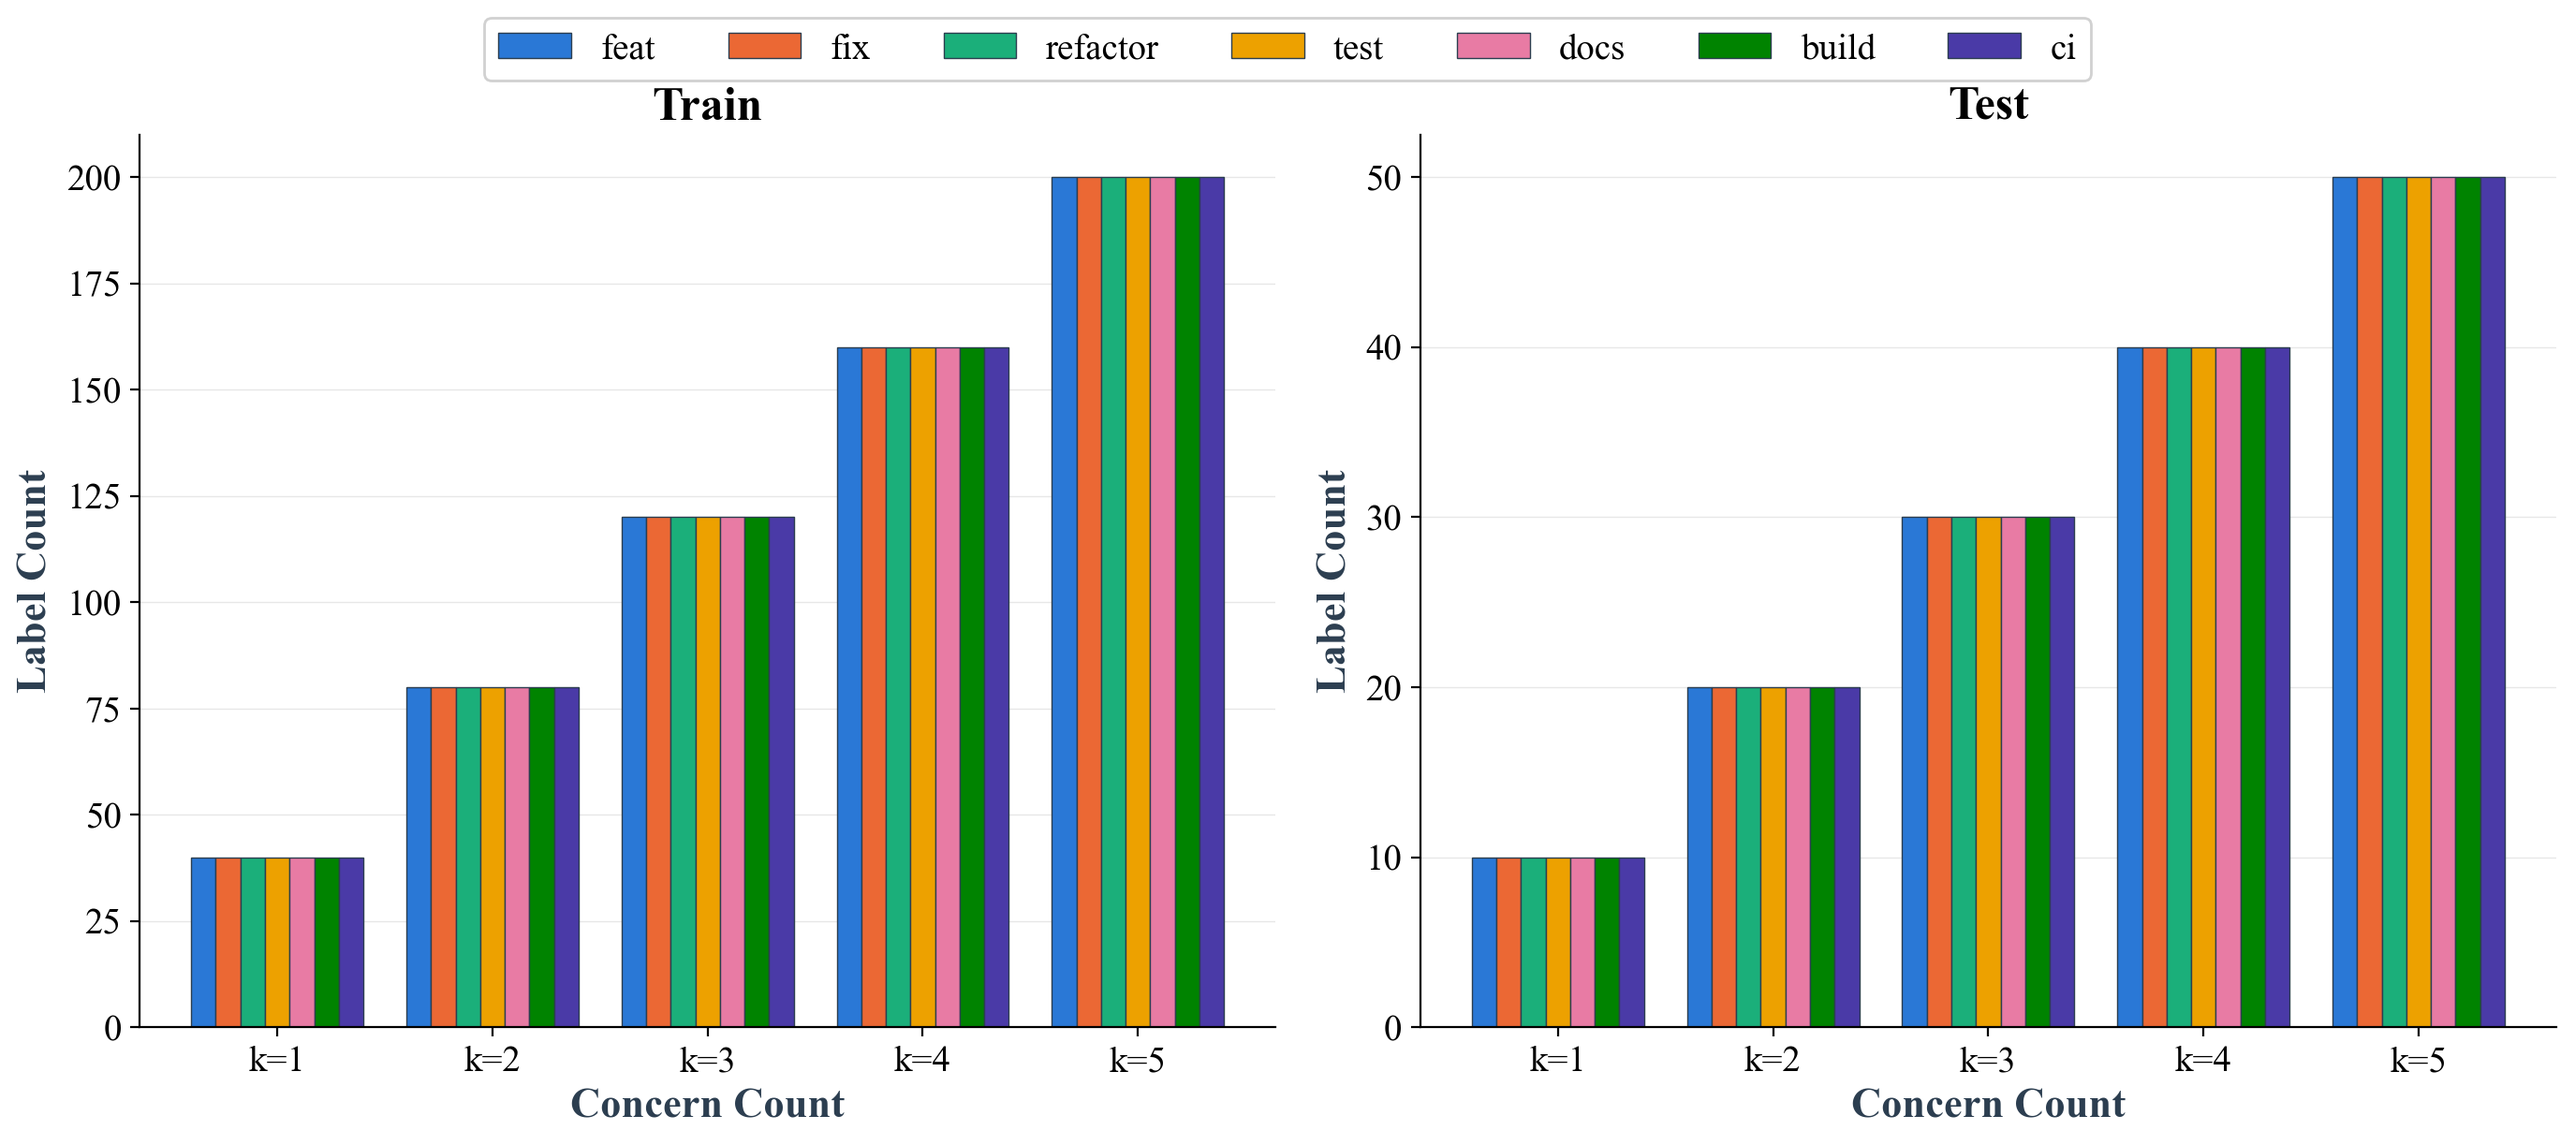
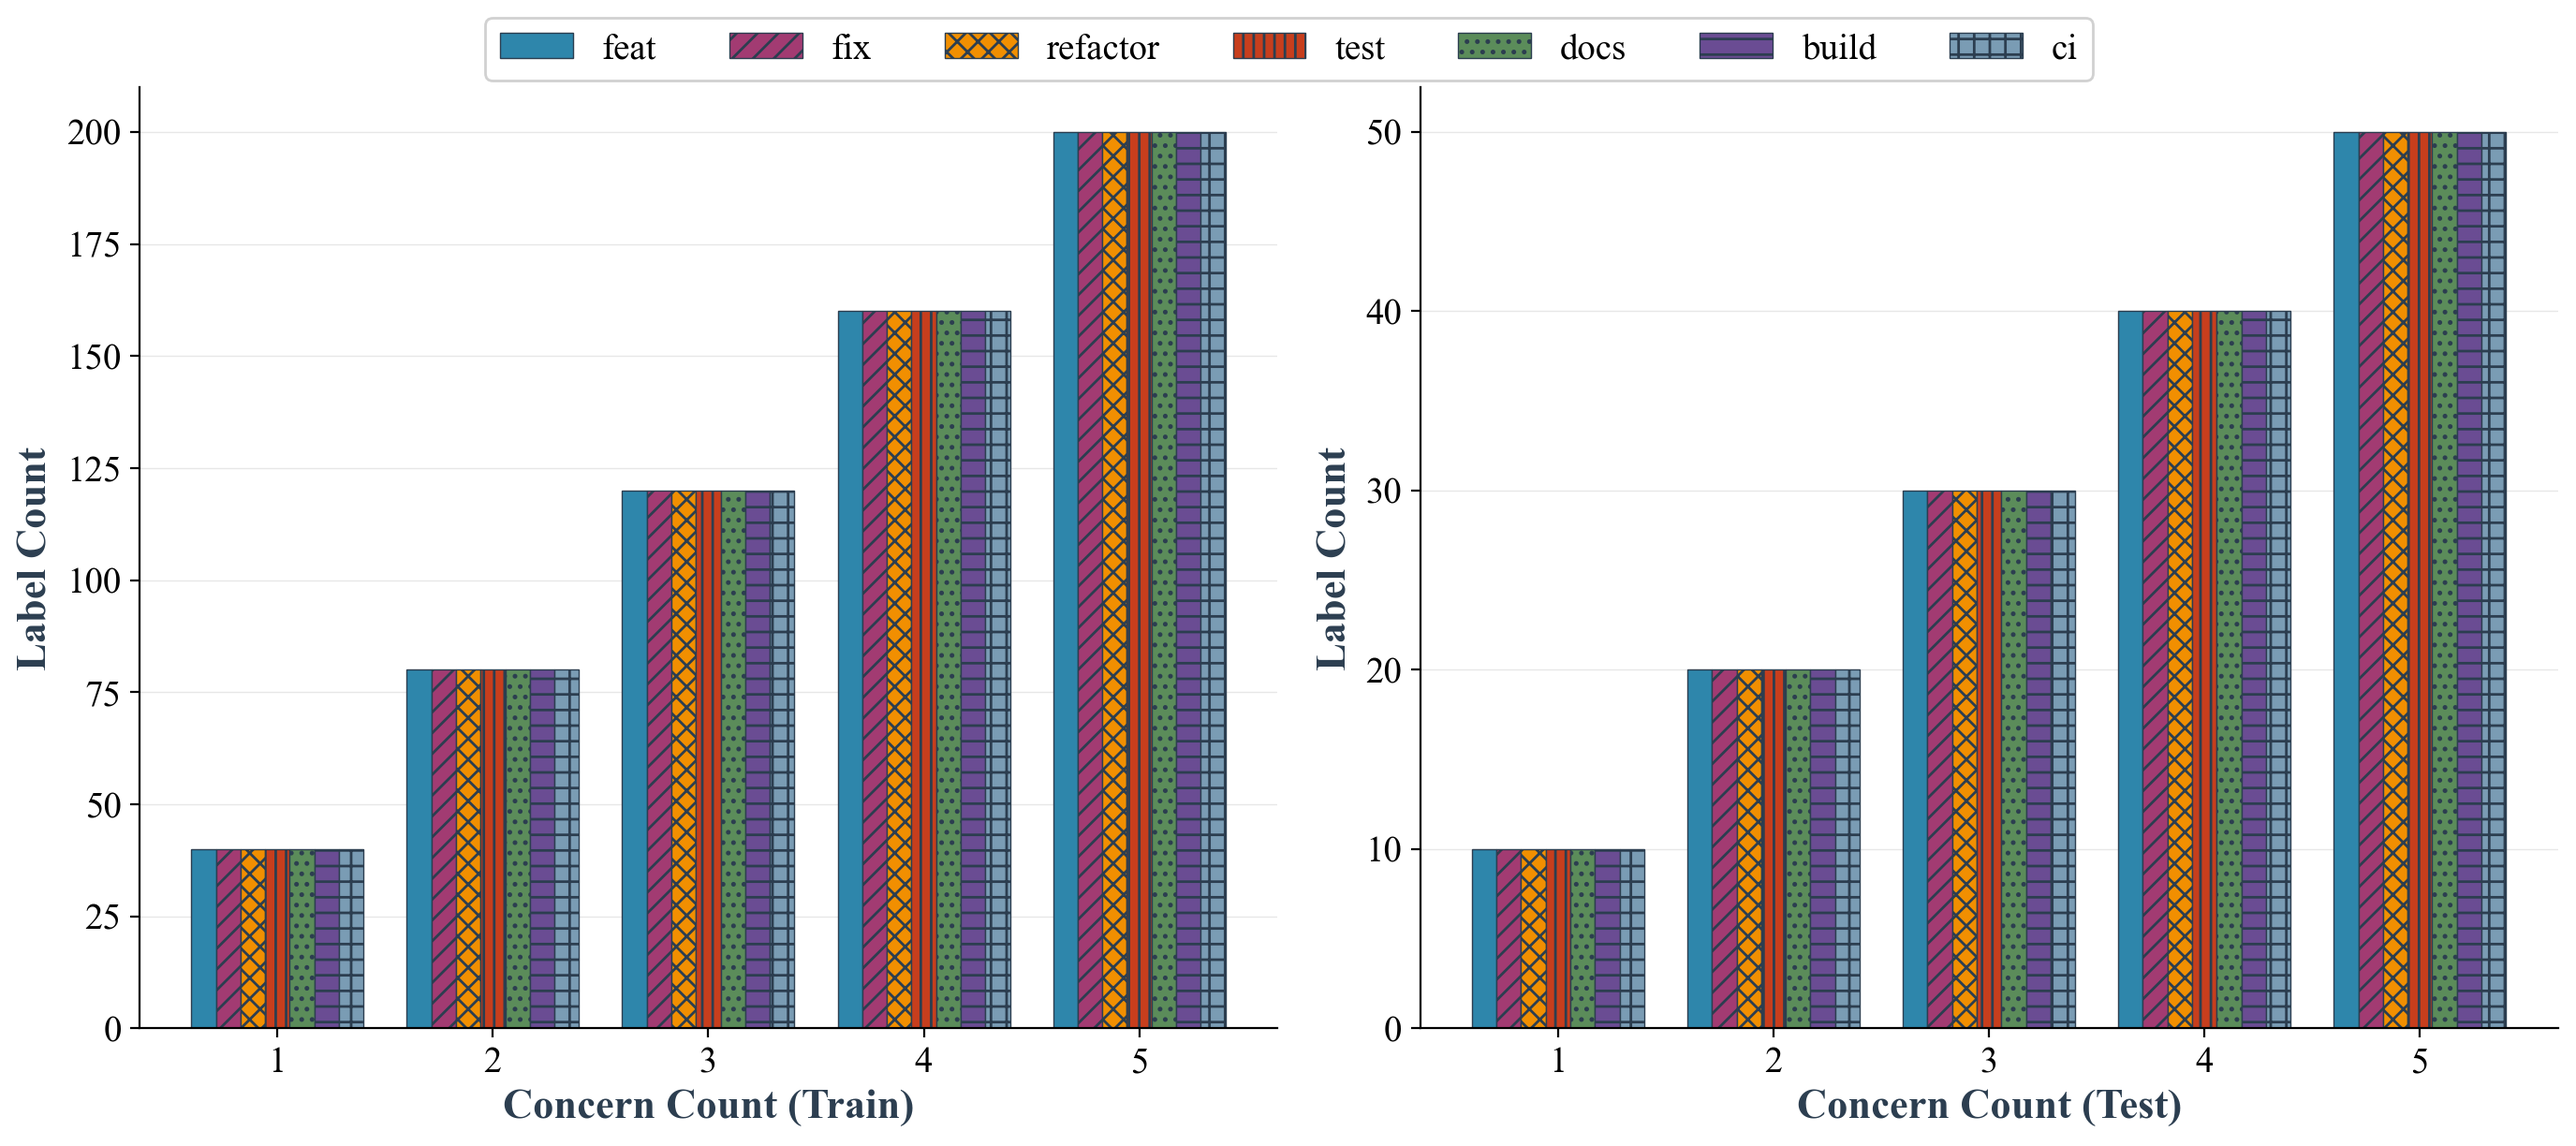
fig(datasets): align the type-distribution chart with the RQ figure style

diff --git a/datasets/scripts/plot_tangled_type_distribution.py b/datasets/scripts/plot_tangled_type_distribution.py
@@ -53,13 +53,25 @@ TEST_EXPECTED_TOTAL_PER_TYPE = sum(TEST_EXPECTED_PER_TYPE_PER_K.values())  # 150
 # are assigned by type identity, never by rank/count, so they stay stable
 # across panels and future re-runs even if the underlying counts change.
 TYPE_COLORS = {
-    "feat": "#2a78d6",
-    "fix": "#eb6834",
-    "refactor": "#1baf7a",
-    "test": "#eda100",
-    "docs": "#e87ba4",
-    "build": "#008300",
-    "ci": "#4a3aa7",
+    "feat": "#2E86AB",
+    "fix": "#A23B72",
+    "refactor": "#F18F01",
+    "test": "#C73E1D",
+    "docs": "#5B8C5A",
+    "build": "#6A4C93",
+    "ci": "#7A9CB4",
+}
+
+# One distinct hatch per type so the seven bars stay separable in grayscale,
+# mirroring the colour+hatch pairing the RQ boxplots already use.
+TYPE_HATCHES = {
+    "feat": "",
+    "fix": "///",
+    "refactor": "xxx",
+    "test": "|||",
+    "docs": "...",
+    "build": "--",
+    "ci": "++",
 }
 
 # ASCII dot-art scale: 1 dot per N labels, chosen so the widest bar (k=5)
@@ -149,16 +161,16 @@ def plot_distribution(
                 values,
                 width=bar_width,
                 color=TYPE_COLORS[t],
+                hatch=TYPE_HATCHES[t],
                 label=t,
                 edgecolor=COLORS["text"],
                 linewidth=0.5,
             )
 
         ax.set_xticks(x_positions)
-        ax.set_xticklabels([f"k={k}" for k in CONCERN_COUNTS])
-        ax.set_xlabel("Concern Count", fontweight="bold", color=COLORS["text"])
+        ax.set_xticklabels([str(k) for k in CONCERN_COUNTS])
+        ax.set_xlabel(f"Concern Count ({split_name})", fontweight="bold", color=COLORS["text"])
         ax.set_ylabel("Label Count", fontweight="bold", color=COLORS["text"])
-        ax.set_title(split_name, fontweight="bold")
 
         ax.grid(True, axis="y", alpha=PLOT_STYLE["grid_alpha"], linestyle="-", linewidth=0.5)
         ax.grid(False, axis="x")
